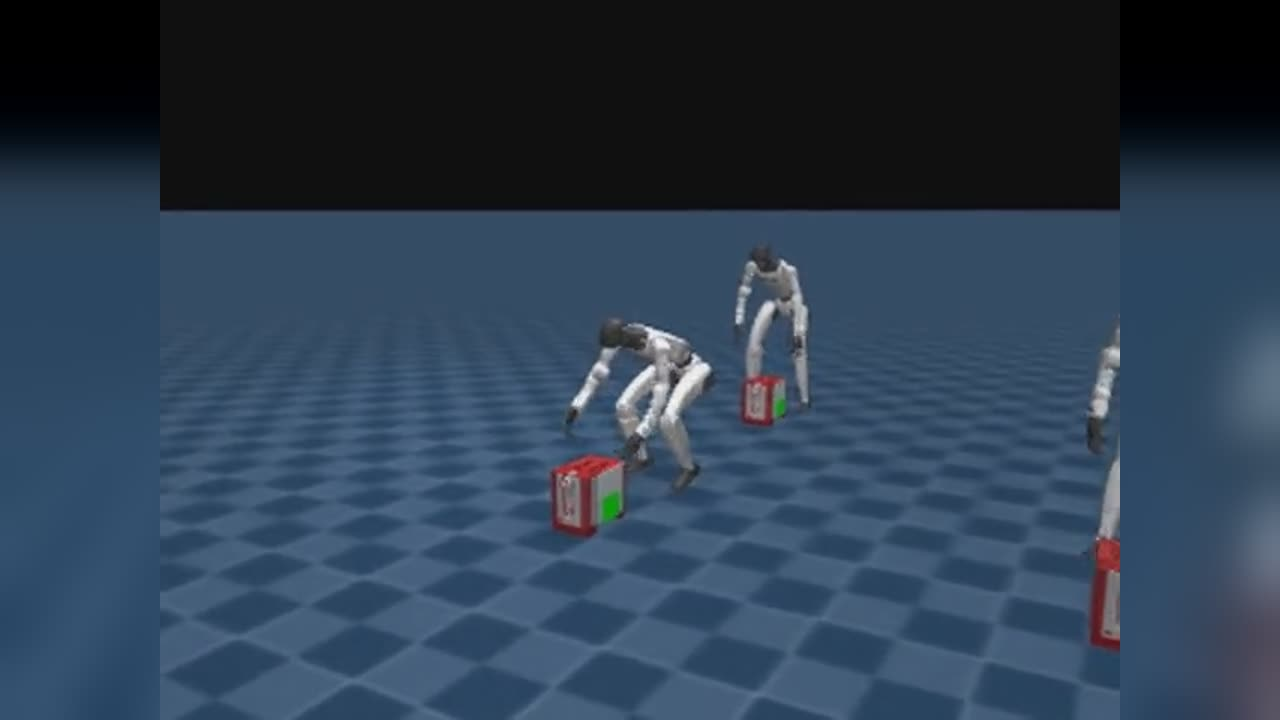
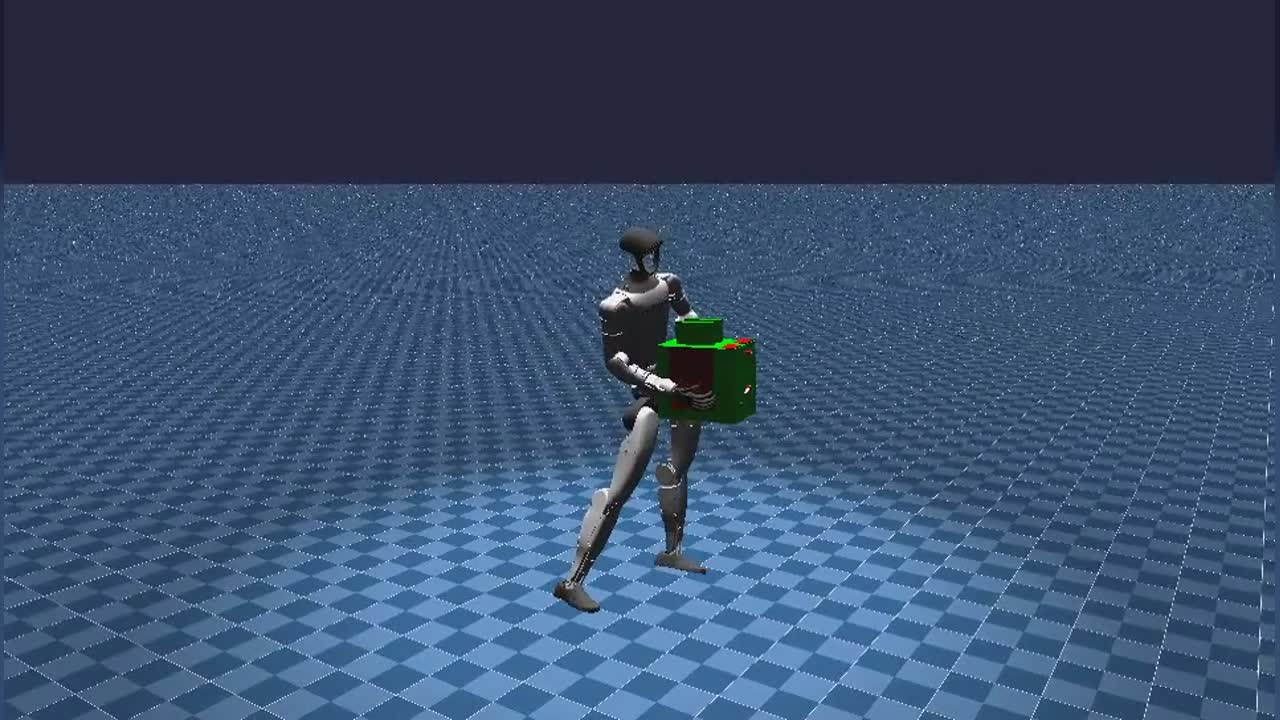
Widen content area, fix scroll + video issues
- max_width 930px -> 1140px (workable area was cramped)
- Homepage news box: scrollable off so no inner scrollbar renders
- Bimanual page: real AMP carry video (models/videos/v6/policy_warp.mp4
  from the humanoid-amp-ppo repo, 960x544) + matching thumbnail
- ReSCoT-Q cylinder video re-trimmed: first ~6 s showed an OBS window
  captured in the screen recording

diff --git a/_pages/about.md b/_pages/about.md
@@ -18,7 +18,7 @@ social: true
 
 announcements:
   enabled: true # includes a list of news items
-  scrollable: true # adds a vertical scroll bar if there are more than 3 news items
+  scrollable: false # adds a vertical scroll bar if there are more than 3 news items
   limit: 5 # leave blank to include all the news in the `_news` folder
 ---
 